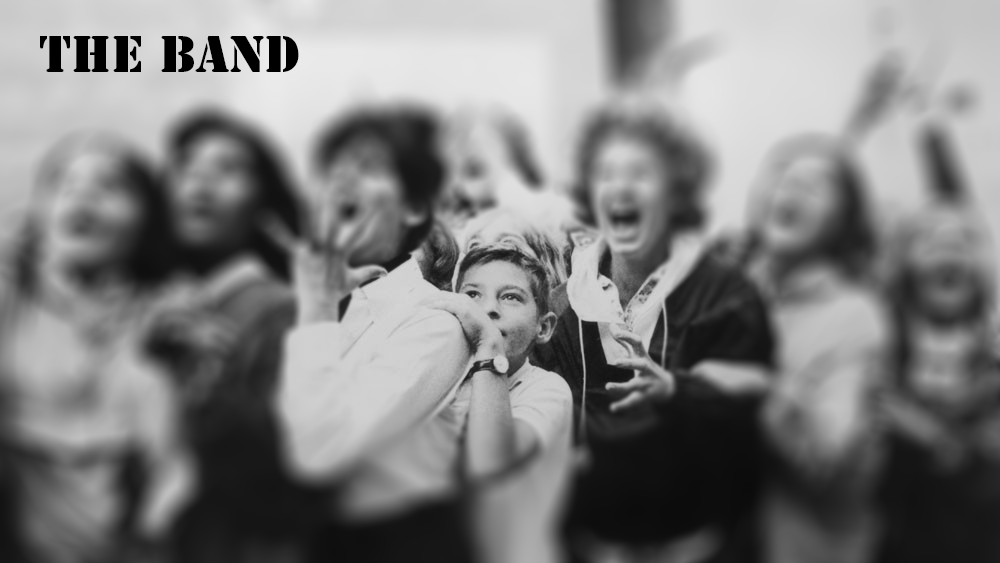
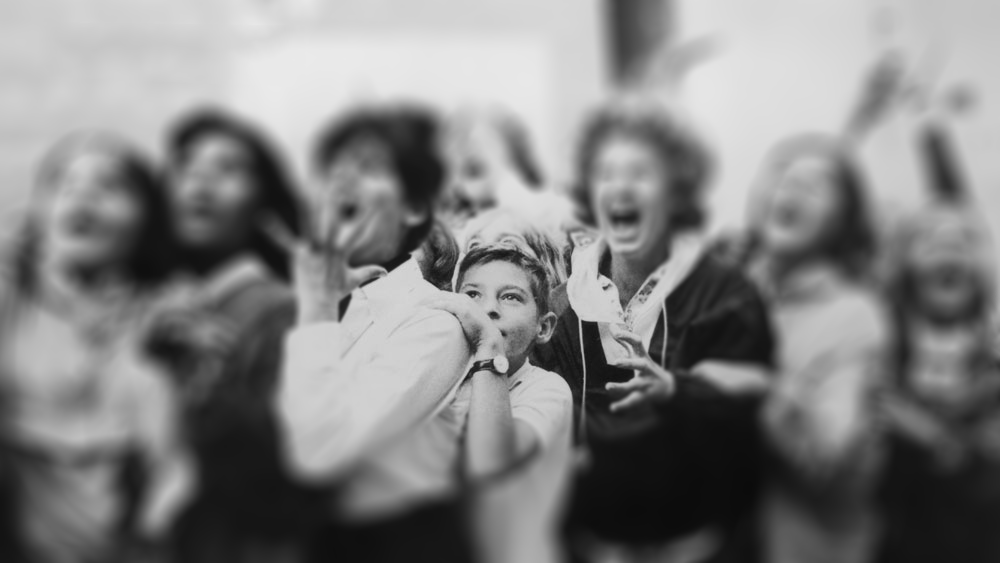
Add hero css and make mobile goodness hero bg

Changed region(s): [[0.031, 0.0604, 0.31, 0.151]]

diff --git a/scss/hero.scss b/scss/hero.scss
@@ -1,22 +1,10 @@
-.landing-body {
-  background-color: #7f7f7f;
-}
-
-.landing-main-container {
-  margin-top: 2rem;
-}
-
-.landing-main-container img {
-  border: 3rem solid #b5b5b5;
-}
-
 .landing-hero-content {
   position: absolute;
   left: 5px;
   top: 5px;
   color: #EFEFEF;
   border: 1.6rem solid #EFEFEF;
-  background-image: url("../../resources/theband_hero.png");
+  background-image: url('../../resources/theband_hero.png');
   background-position-y: -110px;
   background-position-x: center;
   background-size: auto;
@@ -40,17 +28,4 @@
   bottom: 8px;
   right: 1.1rem;
   text-align: right;
-}
-
-.u-clearfix {
-  *zoom: 1;
-}
-
-.u-clearfix:before .u-clearfix:after {
-  content: " ";
-  display: table;
-}
-
-.u-clearfix:after {
-  clear: both;
 }

diff --git a/scss/index.scss b/scss/index.scss
@@ -1,8 +1,8 @@
-// @import 'TODO hero'
 // @import 'TODO article'
 // @import 'TODO faq'
 // @import 'TODO yomama'
 // @import 'TODO trollface'
 
 @import 'main';
+@import 'hero';
 @import 'utils';
